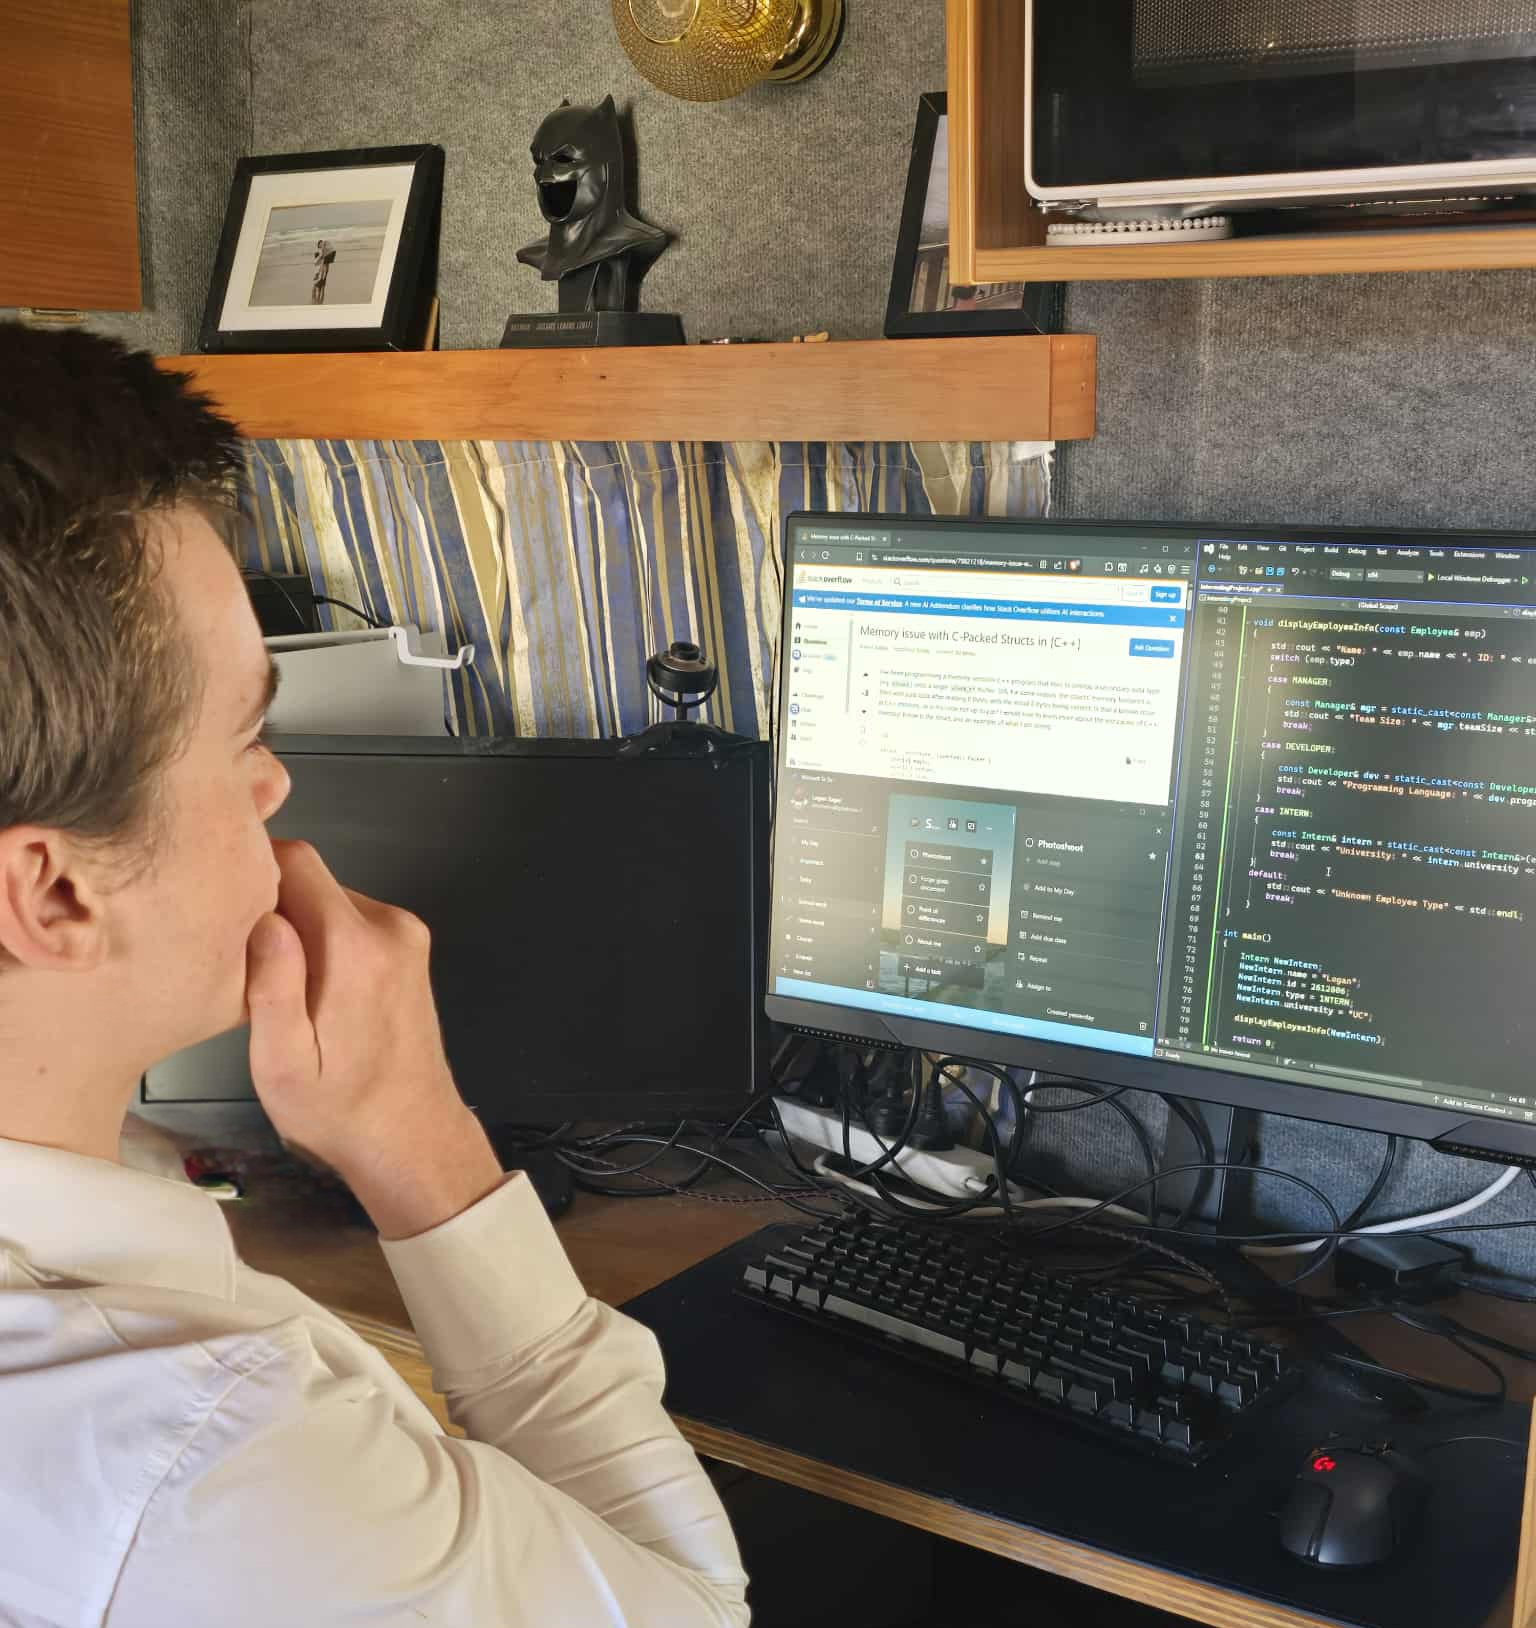
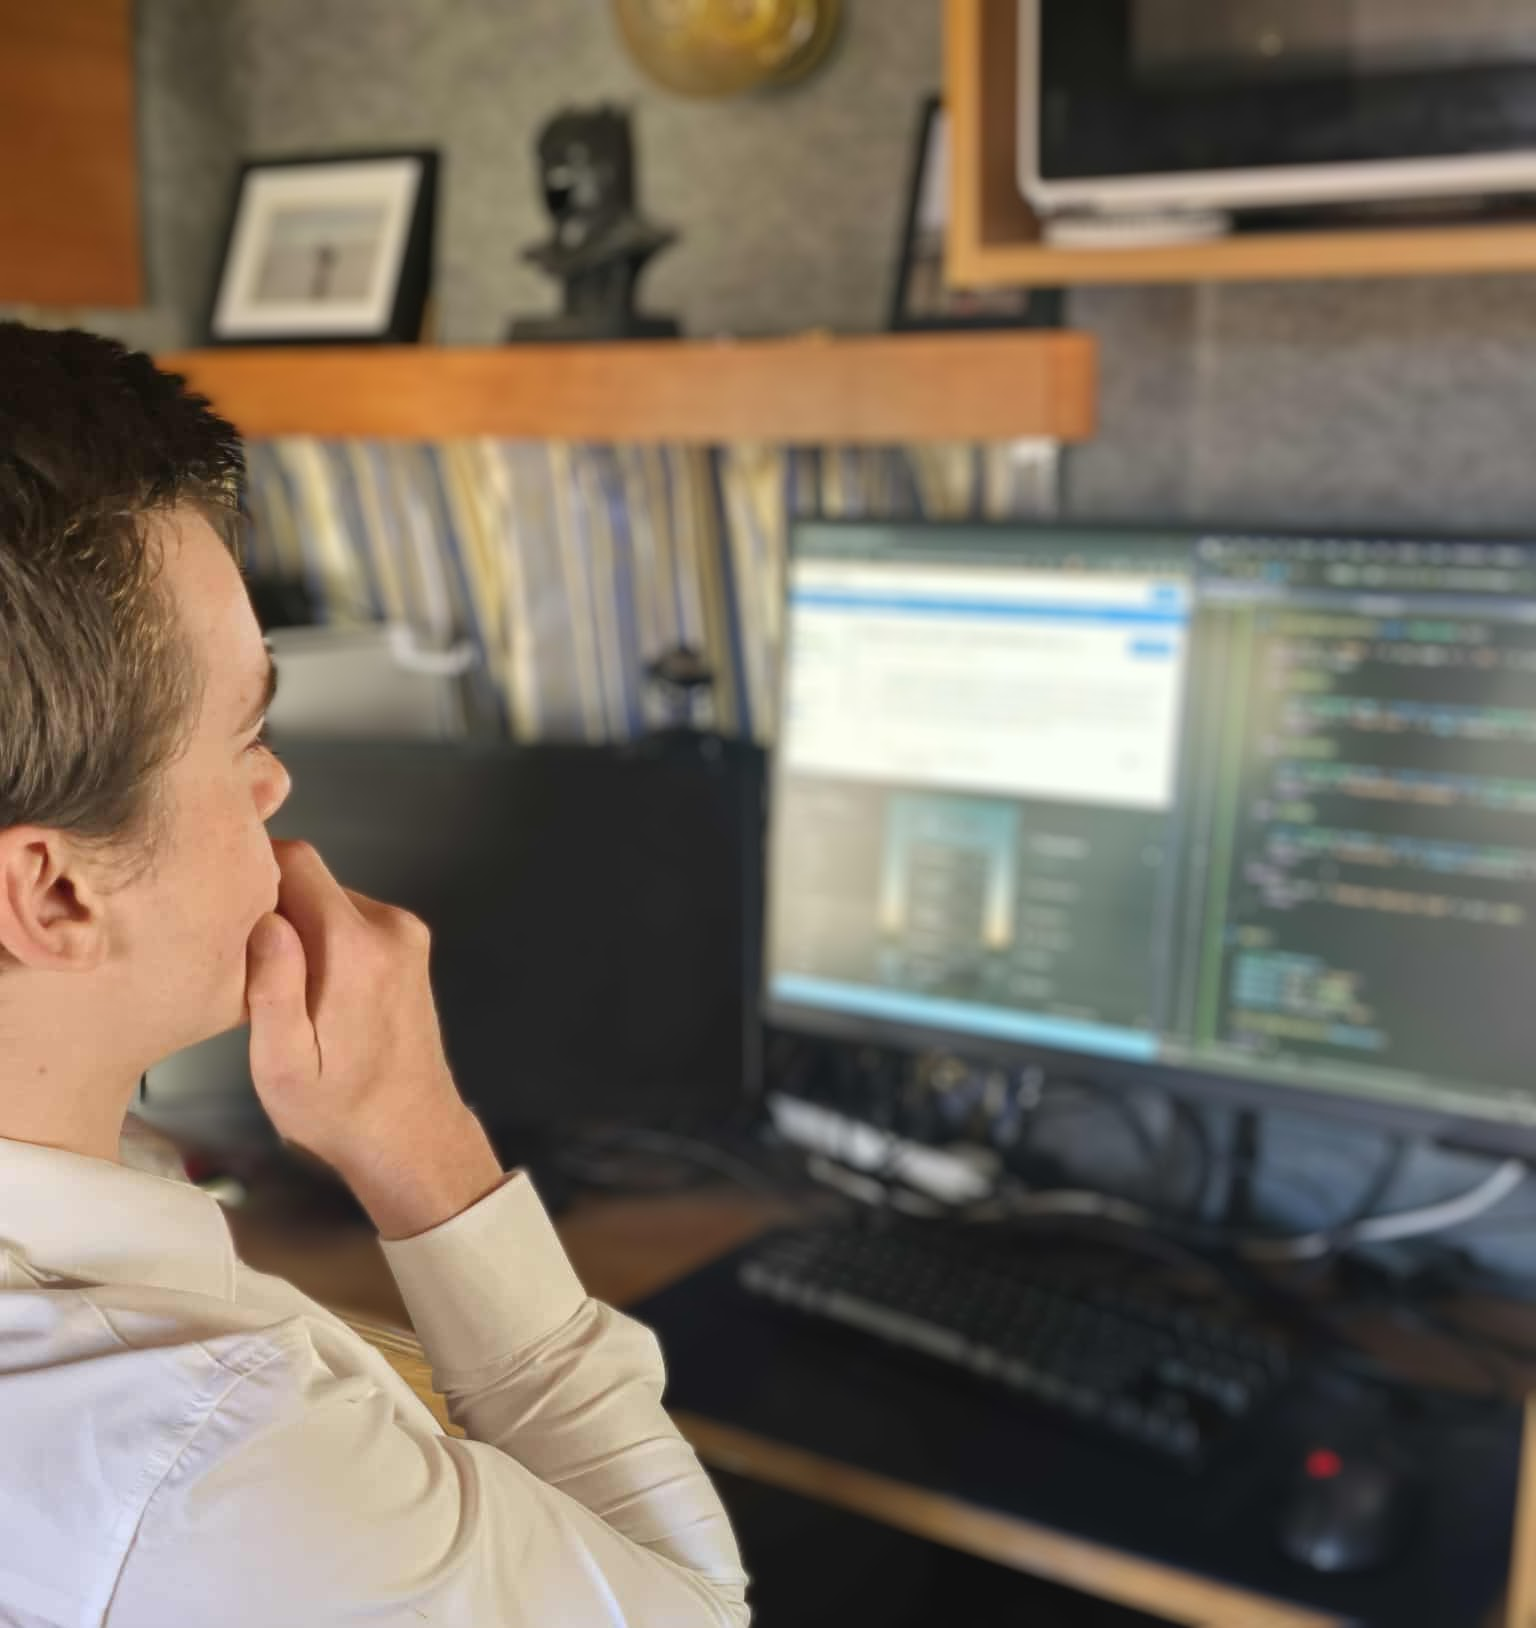
refactor: blur kb photo, change letter spacing for title-hero, increase table size on mobile

diff --git a/Styles/index-styles.css b/Styles/index-styles.css
@@ -23,7 +23,7 @@
 }
 
 .title-hero .header-1 {
-  letter-spacing: 1.5rem;
+  letter-spacing: 2.5rem;
 }
 
 /* ABOUT SECTION STYLES */
@@ -150,7 +150,7 @@ td{
   }
 
   .title-hero .header-1 {
-    letter-spacing: 0.5rem;;
+    letter-spacing: 1.5rem;;
   }
 
   .headshot-img {
@@ -169,8 +169,18 @@ td{
     gap: 5px;
   }
 
+  /* table responsive styles */
   table {
     width: 100%;
+  }
+
+  th {
+    padding: 0.5rem;
+  }
+
+  td {
+    font-size: calc(1rem + 0.25vw);
+    padding: 0.25rem;
   }
 
 }

diff --git a/Styles/StyleSheetImports/global-styles.css b/Styles/StyleSheetImports/global-styles.css
@@ -123,7 +123,7 @@ video{
 
 .header-4 {
   font-family: ClashDisplay-SemiBold, sans-serif;
-  font-size: clamp(1rem, 1.5vw, 2rem);
+  font-size: clamp(1.3rem, 1.5vw, 2rem);
 }
 
 .content-1 {
